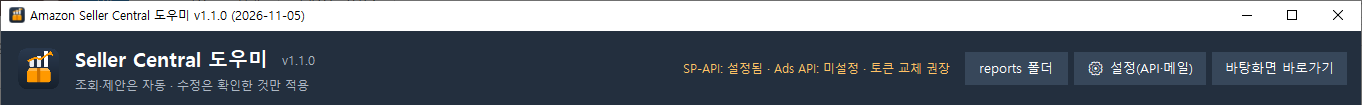
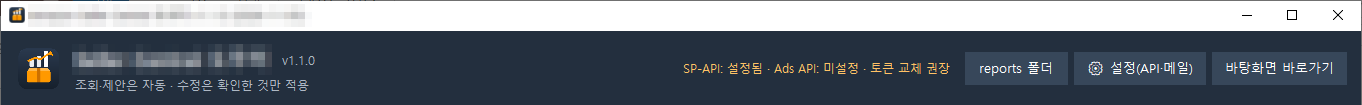
Rename program to SellerMorning, mask old name in screenshots, one post per day
Claude-Session: https://claude.ai/code/session_01WzhbJFrU4VsYVtkRU2SB2q

Changed region(s): [[0.0308, 0.4286, 0.2159, 0.6571], [0.0, 0.0286, 0.2467, 0.2]]

diff --git a/content/ko/posts/amazon-seller-5-listings/index.md b/content/ko/posts/amazon-seller-5-listings/index.md
@@ -1,8 +1,8 @@
 ---
 title: '[5/5] 리스팅을 한눈에'
-published: 2026-11-05T13:00:00+09:00
+published: 2026-11-04
 description: '75자 제목 규칙 등 리스팅 규칙을 한 번에 점검하고, 확인한 수정만 되돌릴 수 있게 적용하는 방법을 소개합니다.'
-tags: [아마존, Seller Central 도우미, 리스팅, SP-API]
+tags: [아마존, SellerMorning, 리스팅, SP-API]
 category: 아마존 셀러
 draft: false
 ---
@@ -69,7 +69,7 @@ Listing 점검은 네 가지 자료를 보기만 하고 비교합니다. 전체 
 
 ## 시리즈를 마치며
 
-아마존 셀러가 되는 것은 누구나 할 수 있지만, 상품이 늘수록 성패는 ‘매일 얼마나 빨리 문제를 찾는가’에서 갈립니다. Seller Central 도우미는 데이터·광고·리스팅을 매일 대신 확인하고, 셀러는 아침에 ‘오늘의 요약’ 한 장을 보고 결정만 하면 되도록 만들었습니다.
+아마존 셀러가 되는 것은 누구나 할 수 있지만, 상품이 늘수록 성패는 ‘매일 얼마나 빨리 문제를 찾는가’에서 갈립니다. SellerMorning은 데이터·광고·리스팅을 매일 대신 확인하고, 셀러는 아침에 ‘오늘의 요약’ 한 장을 보고 결정만 하면 되도록 만들었습니다.
 
 | 이런 셀러에게               | 이유                                          |
 |-----------------------------|-----------------------------------------------|
@@ -77,7 +77,7 @@ Listing 점검은 네 가지 자료를 보기만 하고 비교합니다. 전체 
 | FBA로 미국에 파는 해외 셀러 | 미국 시간·보고서 대기를 프로그램이 대신합니다 |
 | 광고비 비중이 큰 브랜드     | 매일 광고 제안과 효과 추적이 나옵니다         |
 
-Seller Central 도우미는 지금 저희가 매일 쓰면서 계속 다듬고 있는 프로그램입니다. 새 기능과 운영하며 배운 점은 이 블로그에 계속 기록하겠습니다.
+SellerMorning은 지금 저희가 매일 쓰면서 계속 다듬고 있는 프로그램입니다. 새 기능과 운영하며 배운 점은 이 블로그에 계속 기록하겠습니다.
 
 ---
 

diff --git a/content/ko/posts/amazon-seller-3-sales-data/index.md b/content/ko/posts/amazon-seller-3-sales-data/index.md
@@ -1,13 +1,13 @@
 ---
 title: '[3/5] 판매 데이터를 한눈에'
-published: 2026-11-05T11:00:00+09:00
-description: '재고·주문·매출 보고서를 모아 매일 아침 할 일을 한 장으로 보여 주는 Seller Central 도우미의 데이터 기능을 소개합니다.'
-tags: [아마존, Seller Central 도우미, 재고, 보고서]
+published: 2026-11-02
+description: '재고·주문·매출 보고서를 모아 매일 아침 할 일을 한 장으로 보여 주는 SellerMorning의 데이터 기능을 소개합니다.'
+tags: [아마존, SellerMorning, 재고, 보고서]
 category: 아마존 셀러
 draft: false
 ---
 
-## Seller Central 도우미: 매일 아침 할 일을 한 장으로
+## SellerMorning: 매일 아침 할 일을 한 장으로
 
 지난 글에서 본 ‘메뉴 여섯 개, 보고서 여러 개, 기다림’을 대신하는 프로그램입니다. 내 PC에서 실행되고, 보고서를 모아 Excel로 정리한 뒤 ‘지금 무엇을 해야 하는지’를 등급(P0~P3)으로 알려 줍니다.
 
@@ -16,9 +16,9 @@ draft: false
 - **아마존 공식 API(SP-API) 우선** — 재고·주문·재무·Buy Box처럼 API로 받을 수 있는 것은 화면을 열지 않고 바로 받습니다.
 - **API에 없는 화면은 브라우저로** — 보고서 센터처럼 API로 받을 수 없는 화면은, 셀러가 평소에 쓰는 것과 같은 방식으로 브라우저에서 보고서를 내려받습니다. 아마존 서버에 부담을 주지 않도록 클릭 사이에 충분한 간격을 둡니다.
 
-![Seller Central 도우미 메인 창](./helper-log.png)
+![SellerMorning 메인 창](./helper-log.png)
 
-*Seller Central 도우미 메인 창. 왼쪽에서 기능을 고르거나 여러 개를 체크해 차례로 실행하고, 오른쪽에서 실행 로그와 만들어진 결과 파일을 봅니다.*
+*SellerMorning 메인 창. 왼쪽에서 기능을 고르거나 여러 개를 체크해 차례로 실행하고, 오른쪽에서 실행 로그와 만들어진 결과 파일을 봅니다.*
 
 ## 데이터 기능 한눈에 보기
 

diff --git a/content/en/posts/amazon-seller-5-listings/index.md b/content/en/posts/amazon-seller-5-listings/index.md
@@ -1,8 +1,8 @@
 ---
 title: '[5/5] Your Amazon Listings at a Glance'
-published: 2026-11-05T13:00:00+09:00
+published: 2026-11-04
 description: 'Check every listing against rules like the 75-character title limit, then apply only the fixes you approve, with an undo for each.'
-tags: [Amazon, Seller Central Helper, Listings, SP-API]
+tags: [Amazon, SellerMorning, Listings, SP-API]
 category: Amazon Seller
 draft: false
 ---
@@ -69,7 +69,7 @@ There are safeguards too. A price change over 30% or a price that loses money ne
 
 ## Wrapping up the series
 
-Anyone can become an Amazon seller, but as your catalog grows, success comes down to how fast you find problems each day. Seller Central Helper checks your data, ads and listings every day, so each morning you read one page, Today's Summary, and simply decide.
+Anyone can become an Amazon seller, but as your catalog grows, success comes down to how fast you find problems each day. SellerMorning checks your data, ads and listings every day, so each morning you read one page, Today's Summary, and simply decide.
 
 | Built for                                    | Why                                                        |
 |----------------------------------------------|------------------------------------------------------------|
@@ -77,7 +77,7 @@ Anyone can become an Amazon seller, but as your catalog grows, success comes dow
 | Overseas sellers shipping to the US with FBA | The program handles US time zones and report waits for you |
 | Brands with a large ad budget                | Daily ad suggestions and tracking of their results         |
 
-Seller Central Helper is the program we use every day and keep improving. We will keep writing up new features and what we learn along the way here.
+SellerMorning is the program we use every day and keep improving. We will keep writing up new features and what we learn along the way here.
 
 ---
 

diff --git a/content/ko/posts/amazon-seller-2-real-challenge/index.md b/content/ko/posts/amazon-seller-2-real-challenge/index.md
@@ -1,6 +1,6 @@
 ---
 title: '[2/5] 셀러가 된 다음의 진짜 어려움'
-published: 2026-11-05T10:00:00+09:00
+published: 2026-11-01
 description: '상품이 늘면 판매보다 관리가 일이 됩니다. 매일 확인해야 할 여섯 가지와 Seller Central이 어려운 이유를 실제 화면으로 정리했습니다.'
 tags: [아마존, Seller Central, 셀러 운영]
 category: 아마존 셀러
@@ -64,11 +64,11 @@ FBA 재고 보고서를 받는 과정을 예로 들면 이렇습니다.
 
 ## 그래서 직접 만들었다
 
-이 일을 매일 사람 손으로 하는 대신, 저희는 프로그램을 만들었습니다. **Seller Central 도우미**는 위의 보고서들을 대신 모으고, 서로 맞춰 본 뒤, 오늘 처리할 일을 급한 순서대로 정리해 줍니다.
+이 일을 매일 사람 손으로 하는 대신, 저희는 프로그램을 만들었습니다. **SellerMorning**(셀러모닝)은 위의 보고서들을 대신 모으고, 서로 맞춰 본 뒤, 오늘 처리할 일을 급한 순서대로 정리해 줍니다.
 
-![Seller Central 도우미 메인 창](./helper-main.png)
+![SellerMorning 메인 창](./helper-main.png)
 
-*Seller Central 도우미 메인 창. 왼쪽에서 기능을 고르고, 오른쪽 ‘오늘의 요약’에서 등급별(P0~P3) 할 일을 봅니다. 이 날은 아마존이 지적한 리스팅 속성 오류가 P0로 올라왔습니다(매출 수치·SKU·ASIN은 가림).*
+*SellerMorning 메인 창. 왼쪽에서 기능을 고르고, 오른쪽 ‘오늘의 요약’에서 등급별(P0~P3) 할 일을 봅니다. 이 날은 아마존이 지적한 리스팅 속성 오류가 P0로 올라왔습니다(매출 수치·SKU·ASIN은 가림).*
 
 다음 글부터는 이 프로그램의 기능을 하나씩 소개합니다. 첫 번째는 재고·주문·매출 데이터를 한 번에 모아 보는 방법입니다.
 

diff --git a/content/en/posts/amazon-seller-3-sales-data/index.md b/content/en/posts/amazon-seller-3-sales-data/index.md
@@ -1,13 +1,13 @@
 ---
 title: '[3/5] Your Amazon Sales Data at a Glance'
-published: 2026-11-05T11:00:00+09:00
-description: 'Seller Central Helper gathers inventory, order and sales reports and turns them into one morning to-do page. Here are its data features.'
-tags: [Amazon, Seller Central Helper, Inventory, Reports]
+published: 2026-11-02
+description: 'SellerMorning gathers inventory, order and sales reports and turns them into one morning to-do page. Here are its data features.'
+tags: [Amazon, SellerMorning, Inventory, Reports]
 category: Amazon Seller
 draft: false
 ---
 
-## Seller Central Helper: your morning to-do list on one page
+## SellerMorning: your morning to-do list on one page
 
 This is the program that replaces the ‘six menus, many reports, long waits’ from the last post. It runs on your own PC, gathers the reports into Excel, and tells you what needs doing now, ranked P0 to P3.
 
@@ -16,9 +16,9 @@ It works in two ways.
 - **Amazon's official API (SP-API) first** — inventory, orders, finance and Buy Box data come straight from the API, without opening a page.
 - **A browser for pages the API doesn't cover** — for pages such as the report center, it downloads reports in the browser, the same way a seller would, with generous pauses between clicks so it never puts load on Amazon's site.
 
-![Seller Central Helper main window](./helper-log.png)
+![SellerMorning main window](./helper-log.png)
 
-*The Seller Central Helper main window. Pick a feature on the left, or tick several to run in order; the run log and result files appear on the right (the program's screens are in Korean).*
+*The SellerMorning main window. Pick a feature on the left, or tick several to run in order; the run log and result files appear on the right (the program's screens are in Korean).*
 
 ## The data features at a glance
 

diff --git a/content/en/posts/amazon-seller-2-real-challenge/index.md b/content/en/posts/amazon-seller-2-real-challenge/index.md
@@ -1,6 +1,6 @@
 ---
 title: '[2/5] The Real Challenge After You Start Selling'
-published: 2026-11-05T10:00:00+09:00
+published: 2026-11-01
 description: 'As your catalog grows, managing it becomes the real job. The six things to check every day, and why Seller Central makes it hard, with real screens.'
 tags: [Amazon, Seller Central, Operations]
 category: Amazon Seller
@@ -64,11 +64,11 @@ Only after you do this for inventory, all listings, orders, returns, business an
 
 ## So we built a tool for it
 
-Instead of doing this by hand every day, we built a program. **Seller Central Helper** gathers the reports above, lines them up, and lists today's to-dos in order of urgency.
+Instead of doing this by hand every day, we built a program. **SellerMorning** gathers the reports above, lines them up, and lists today's to-dos in order of urgency.
 
-![Seller Central Helper main window](./helper-main.png)
+![SellerMorning main window](./helper-main.png)
 
-*The Seller Central Helper main window. Pick features on the left; Today's Summary on the right ranks the to-dos from P0 to P3. On this day, listing attribute errors flagged by Amazon came up as P0 (sales figures, SKUs and ASINs masked; the program's screens are in Korean).*
+*The SellerMorning main window. Pick features on the left; Today's Summary on the right ranks the to-dos from P0 to P3. On this day, listing attribute errors flagged by Amazon came up as P0 (sales figures, SKUs and ASINs masked; the program's screens are in Korean).*
 
 From the next post on, we go through its features one by one. First up: pulling inventory, order and sales data together in one place.
 

diff --git a/content/en/posts/amazon-seller-1-getting-started/index.md b/content/en/posts/amazon-seller-1-getting-started/index.md
@@ -1,6 +1,6 @@
 ---
 title: '[1/5] Anyone Can Become an Amazon Seller'
-published: 2026-11-05T09:00:00+09:00
+published: 2026-10-31
 description: 'How to become an Amazon.com seller with an ID, a bank account and one product: registering, listing and making your first sale, step by step.'
 tags: [Amazon, Getting Started, FBA]
 category: Amazon Seller
@@ -83,11 +83,11 @@ The first order rarely comes on its own, though. A new product has no reviews an
 
 At this point you are an Amazon seller. But once you have 10 or 50 products, new problems appear. The next post covers the management struggles every seller runs into.
 
-From part 3 on, we introduce the program we built and use ourselves to take over that work: **Seller Central Helper**. Its rule is simple: checks and suggestions run automatically, and edits apply only after the seller reviews them.
+From part 3 on, we introduce the program we built and use ourselves to take over that work: **SellerMorning**. Its rule is simple: checks and suggestions run automatically, and edits apply only after the seller reviews them.
 
-![Seller Central Helper](./helper-header.png)
+![SellerMorning](./helper-header.png)
 
-*The top of the Seller Central Helper window, showing the Amazon API connection status and settings (the program's screens are in Korean).*
+*The top of the SellerMorning window, showing the Amazon API connection status and settings (the program's screens are in Korean).*
 
 ---
 

diff --git a/content/ko/posts/amazon-seller-4-ads/index.md b/content/ko/posts/amazon-seller-4-ads/index.md
@@ -1,8 +1,8 @@
 ---
 title: '[4/5] 광고를 한눈에'
-published: 2026-11-05T12:00:00+09:00
+published: 2026-11-03
 description: '팔리지 않는 검색어, 맞지 않는 입찰가, 놓친 키워드를 매일 찾아 실행 방법까지 제안하는 광고 분석 기능을 소개합니다.'
-tags: [아마존, Seller Central 도우미, 아마존 광고, PPC]
+tags: [아마존, SellerMorning, 아마존 광고, PPC]
 category: 아마존 셀러
 draft: false
 ---
@@ -18,9 +18,9 @@ draft: false
 - **놓친 기회** — 자동 캠페인에서 잘 팔리는데 정확 일치 키워드로 옮기지 않은 검색어
 - **재고와 어긋난 광고** — 재고가 거의 없거나 Buy Box를 잃었는데 계속 도는 광고
 
-Seller Central 도우미의 광고 기능은 이 네 가지를 매일 찾아 ‘무엇을, 어디서, 얼마나’ 바꾸면 되는지 제안합니다.
+SellerMorning의 광고 기능은 이 네 가지를 매일 찾아 ‘무엇을, 어디서, 얼마나’ 바꾸면 되는지 제안합니다.
 
-![Seller Central 도우미 기능 목록](./helper-features.png)
+![SellerMorning 기능 목록](./helper-features.png)
 
 *프로그램 왼쪽의 기능 목록. 광고 기능은 ‘광고 데이터 수집·조치 제안’과, 이미 받은 자료로 분석만 다시 하는 ‘광고 분석만 다시 하기’ 두 가지입니다.*
 

diff --git a/content/en/posts/amazon-seller-4-ads/index.md b/content/en/posts/amazon-seller-4-ads/index.md
@@ -1,8 +1,8 @@
 ---
 title: '[4/5] Your Amazon Ads at a Glance'
-published: 2026-11-05T12:00:00+09:00
+published: 2026-11-03
 description: 'The ads feature finds searches that waste money, bids that eat profit and keywords you missed, and says exactly how to fix them.'
-tags: [Amazon, Seller Central Helper, Amazon Ads, PPC]
+tags: [Amazon, SellerMorning, Amazon Ads, PPC]
 category: Amazon Seller
 draft: false
 ---
@@ -18,9 +18,9 @@ Most of the leaks come from four places.
 - **Missed chances** — a search term sells well in an auto campaign but was never moved to an exact-match keyword
 - **Ads out of step with stock** — ads keep running for a product that is almost out of stock or has lost the Buy Box
 
-The ads feature of Seller Central Helper finds these four every day and suggests what to change, where, and by how much.
+The ads feature of SellerMorning finds these four every day and suggests what to change, where, and by how much.
 
-![Seller Central Helper feature list](./helper-features.png)
+![SellerMorning feature list](./helper-features.png)
 
 *The feature list on the left of the program. The ads features are 'Collect ad data and suggest actions' and 'Re-run ad analysis only', which reuses data already downloaded (the program's screens are in Korean).*
 

diff --git a/content/ko/posts/hello-toolbox-notes.md b/content/ko/posts/hello-toolbox-notes.md
@@ -1,6 +1,6 @@
 ---
 title: 'Toolbox Notes를 시작합니다'
-published: 2026-11-05
+published: 2026-10-30
 description: '이 블로그를 만든 이유: 일상 업무를 편하게 하려고 직접 만든 작은 도구들의 기록.'
 tags: [소개]
 category: 노트

diff --git a/content/en/posts/hello-toolbox-notes.md b/content/en/posts/hello-toolbox-notes.md
@@ -1,6 +1,6 @@
 ---
 title: 'Hello, Toolbox Notes'
-published: 2026-11-05
+published: 2026-10-30
 description: 'Why this blog exists: notes on the small tools I build to make everyday work easier.'
 tags: [Meta]
 category: Notes
